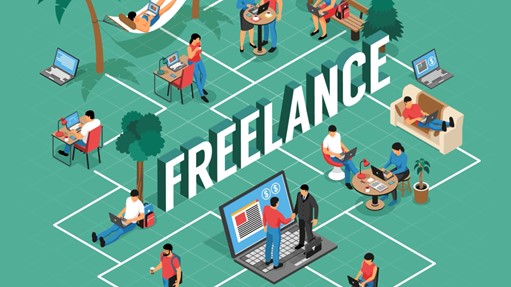
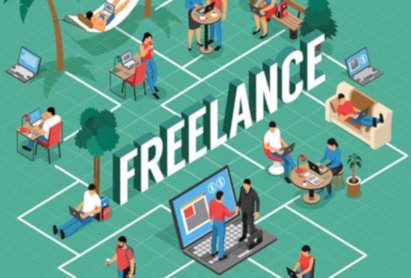
progres!!!

diff --git a/index.html b/index.html
@@ -6,15 +6,10 @@
         <script src="https://cdn.jsdelivr.net/npm/bootstrap@5.3.8/dist/js/bootstrap.bundle.min.js" integrity="sha384-FKyoEForCGlyvwx9Hj09JcYn3nv7wiPVlz7YYwJrWVcXK/BmnVDxM+D2scQbITxI" crossorigin="anonymous"></script>
     </head>
     <body>
-        <header style="background-color: #666; padding: 30px; text-align: center; font-size: 35px; color: white;">
-            <h1 class="display-5 fw-bold">Dark Forge Games</h1>
-            <p class="col-md-8 fs-5">bottom text</p>
-        </header>
-
-        <nav class="navbar navbar-expand-lg bg-body-tertiary" data-bs-theme = "dark">
+        <nav class="navbar fixed-top navbar-expand-lg" style="background: rgb(40, 35, 67);">
             <div class="container-fluid">
-                <a class="navbar-brand" href="#">
-                    <img src="assets/DarkForgeGames.png" alt="" width="50" height="30" class="d-inline-block align-text-top">
+                <a class="navbar-brand" href="#" style="font-size: 160%; font-family:FleshandBlood; color:rgb(112, 99, 195);">
+                    <img src="assets/DarkForgeGames.png" alt="" width="50" height="55" class="d-inline-block align-text-middle">
                     Dark Forge Games
                 </a>
 
@@ -26,89 +21,98 @@
 
                     <ul class="navbar-nav">
                         <li class="nav-item">
-                        <a class="nav-link active" aria-current="page" href="index.html">Home</a>
+                        <a class="nav-link active" aria-current="page" href="index.html" style="color: rgb(156, 144, 234); padding:15px">HOME</a>
                         </li>
                         <li class="nav-item">
-                        <a class="nav-link" href="about.html">About</a>
+                        <a class="nav-link" href="about.html" style="color: rgb(156, 144, 234); padding:15px">ABOUT</a>
                         </li>
                     </ul>
                 </div>
             </div>
         </nav>
 
-        <br><br>
-
-
-        <div style="margin:auto; width: 75%;">
-            <div class="card" style="width: 18rem;">
-                <img src="assets/Blogs/Thumbnail/IPdef.jpg" class="card-img-top" alt="Profile Picture">
-                <div class="card-body">
-                    <h5 class="card-title"  style = "font-family: 'Sovngarde'; font-size: 28px;">Sony’s Iron Grip on one of From Software’s most beloved IP: The reason and story behind it</h5>
-                    <p class="card-text"  style = "font-family: 'Sovngarde'; font-size: 22px;">Sony has had the ball in their court for over a decade in regards to one of From Software’s most beloved IPs: Bloodborne. Ever since the release of the game...</p>
-                    <a href="BlogIPRights.html" class="btn btn-primary" >Read Blog</a>
-                </div>
-            </div>
-
-            <div class="card" style="width: 18rem;">
-                <img src="assets/Blogs/Thumbnail/Freelance Pic.jpg" class="card-img-top" alt="Profile Picture">
-                <div class="card-body">
-                    <h5 class="card-title"  style = "font-family: 'Sovngarde'; font-size: 28px;">Freelancing in the Games Development Sphere: Is it worth it?</h5>
-                    <p class="card-text"  style = "font-family: 'Sovngarde'; font-size: 22px;">Freelancing in the Games Industry takes on two forms: being an “indie” games dev or taking short-term contracts for bigger companies. This post will cover the differences...</p>
-                    <a href="BlogFreelancing.html" class="btn btn-primary" >Read Blog</a>
-                </div>
-            </div>
-        </div>
-        
-        
-        <br><br>
-
-        <div style="margin:auto; width: 60%;">
-            <div id="carouselExampleIndicators" class="carousel slide">
-            <div class="carousel-indicators">
-                <button type="button" data-bs-target="#carouselExampleIndicators" data-bs-slide-to="0" class="active" aria-current="true" aria-label="Slide 1"></button>
-                <button type="button" data-bs-target="#carouselExampleIndicators" data-bs-slide-to="1" aria-label="Slide 2"></button>
-                <button type="button" data-bs-target="#carouselExampleIndicators" data-bs-slide-to="2" aria-label="Slide 3"></button>
-                <button type="button" data-bs-target="#carouselExampleIndicators" data-bs-slide-to="3" aria-label="Slide 4"></button>
-            </div>
-            <div class="carousel-inner">
-                <div class="carousel-item active">
-                    <img src="assets/Carousel/GearsOfBlood.png" class="d-block w-100" alt="Gears of Blood">
-                    <div class="carousel-caption d-none d-md-block">
-                        <h2>Gears of Blood</h3>
+        <header style="background-image: url('assets/Castle Ruins.png'); background-size:cover; background-position: top;padding: 200px; text-align: center; font-size: 35px; color: black;">
+            <h1 style="font-size: 200%; text-align: center; font-family:FleshandBlood; color: rgb(195, 186, 245); ">Dark Forge Games</h1>
+            <p style="font-size: 100%; text-align: center; color: rgb(195, 186, 245);">bottom text</p>
+        </header>
+        <br>
+        <section>
+            <div style="margin:auto; width: 75%;" class="row justify-content-evenly">
+                <div class="card" style="width: 18rem; height:fit-content">
+                    <img src="assets/Blogs/Thumbnail/IPdef.jpg" class="card-img-top" alt="Profile Picture">
+                    <div class="card-body">
+                        <h5 class="card-title"  style = "font-family: 'Sovngarde'; font-size: 24px;">Sony’s Iron Grip on one of From Software’s most beloved IP: The reason and story behind it</h5>
+                        <p class="card-text"  style = "font-family: 'Sovngarde'; font-size: 18px;">Sony has had the ball in their court for over a decade in regards to one of From Software’s most beloved IPs: Bloodborne. Ever since the release of the game...</p>
+                        <a href="BlogIPRights.html" class="btn btn-primary" >Read Blog</a>
                     </div>
                 </div>
-                <div class="carousel-item">
-                    <img src="assets/Carousel/SanctumArcana.png" class="d-block w-100" alt="Sanctum Arcana">
-                    <div class="carousel-caption d-none d-md-block">
-                        <h2>Sanctum Arcana</h3>
-                    </div>
-                </div>
-                <div class="carousel-item">
-                    <img src="assets/Carousel/Tenement49.png" class="d-block w-100" alt="Tenement 49">
-                    <div class="carousel-caption d-none d-md-block">
-                        <h2>Tenement 49</h3>
-                    </div>
-                </div>
-                <div class="carousel-item">
-                    <img src="assets/Carousel/UntitledGladiatorGame.jpg" class="d-block w-100" alt="Untitled Gladiator Game">
-                    <div class="carousel-caption d-none d-md-block">
-                        <h2>Untitled Gladiator Game</h3>
+
+                <div class="card" style="width: 18rem; height:fit-content">
+                    <img src="assets/Blogs/Thumbnail/Freelance Pic.jpg" class="card-img-top" alt="Profile Picture">
+                    <div class="card-body">
+                        <h5 class="card-title"  style = "font-family: 'Sovngarde'; font-size: 24px;">Freelancing in the Games Development Sphere: Is it worth it?</h5>
+                        <p class="card-text"  style = "font-family: 'Sovngarde'; font-size: 18px;">Freelancing in the Games Industry takes on two forms: being an “indie” games dev or taking short-term contracts for bigger companies. This post will cover the differences between...</p>
+                        <a href="BlogFreelancing.html" class="btn btn-primary" >Read Blog</a>
                     </div>
                 </div>
             </div>
-                <button class="carousel-control-prev" type="button" data-bs-target="#carouselExampleIndicators" data-bs-slide="prev">
-                    <span class="carousel-control-prev-icon" aria-hidden="true"></span>
-                    <span class="visually-hidden">Previous</span>
-                </button>
-                <button class="carousel-control-next" type="button" data-bs-target="#carouselExampleIndicators" data-bs-slide="next">
-                    <span class="carousel-control-next-icon" aria-hidden="true"></span>
-                    <span class="visually-hidden">Next</span>
-                </button>
+        </section>
+        <br>
+        <section>
+            <div style="margin:auto; width: 75%;">
+                <div id="carouselExampleIndicators" class="carousel slide">
+                <div class="carousel-indicators">
+                    <button type="button" data-bs-target="#carouselExampleIndicators" data-bs-slide-to="0" class="active" aria-current="true" aria-label="Slide 1"></button>
+                    <button type="button" data-bs-target="#carouselExampleIndicators" data-bs-slide-to="1" aria-label="Slide 2"></button>
+                    <button type="button" data-bs-target="#carouselExampleIndicators" data-bs-slide-to="2" aria-label="Slide 3"></button>
+                    <button type="button" data-bs-target="#carouselExampleIndicators" data-bs-slide-to="3" aria-label="Slide 4"></button>
+                </div>
+                <div class="carousel-inner">
+                    <div class="carousel-item active">
+                        <img src="assets/Carousel/GearsOfBlood.png" class="d-block w-100" alt="Gears of Blood">
+                        <div class="carousel-caption d-none d-md-block">
+                            <h2>Gears of Blood</h3>
+                        </div>
+                    </div>
+                    <div class="carousel-item">
+                        <img src="assets/Carousel/SanctumArcana.png" class="d-block w-100" alt="Sanctum Arcana">
+                        <div class="carousel-caption d-none d-md-block">
+                            <h2>Sanctum Arcana</h3>
+                        </div>
+                    </div>
+                    <div class="carousel-item">
+                        <img src="assets/Carousel/Tenement49.png" class="d-block w-100" alt="Tenement 49">
+                        <div class="carousel-caption d-none d-md-block">
+                            <h2>Tenement 49</h3>
+                        </div>
+                    </div>
+                    <div class="carousel-item">
+                        <img src="assets/Carousel/UntitledGladiatorGame.jpg" class="d-block w-100" alt="Untitled Gladiator Game">
+                        <div class="carousel-caption d-none d-md-block">
+                            <h2>Untitled Gladiator Game</h3>
+                        </div>
+                    </div>
+                </div>
+                    <button class="carousel-control-prev" type="button" data-bs-target="#carouselExampleIndicators" data-bs-slide="prev">
+                        <span class="carousel-control-prev-icon" aria-hidden="true"></span>
+                        <span class="visually-hidden">Previous</span>
+                    </button>
+                    <button class="carousel-control-next" type="button" data-bs-target="#carouselExampleIndicators" data-bs-slide="next">
+                        <span class="carousel-control-next-icon" aria-hidden="true"></span>
+                        <span class="visually-hidden">Next</span>
+                    </button>
+                </div>
             </div>
-        </div>
+        </section>
 
-        <footer>
-            <p>Footer</p>
+        <br>
+
+        <footer style ="background-color: rgb(40, 35, 67); text-align: center; color: white;">
+
+            <section style="padding:20px;">
+                <p>para</p>
+            </section>
+
         </footer>
 
     </body> 

diff --git a/test.html b/test.html
@@ -6,42 +6,34 @@
         <meta name="viewport" content="width=device-width, initial-scale=1">
         <link href="https://cdn.jsdelivr.net/npm/bootstrap@5.3.8/dist/css/bootstrap.min.css" rel="stylesheet" integrity="sha384-sRIl4kxILFvY47J16cr9ZwB07vP4J8+LH7qKQnuqkuIAvNWLzeN8tE5YBujZqJLB" crossorigin="anonymous">
         <script src="https://cdn.jsdelivr.net/npm/bootstrap@5.3.8/dist/js/bootstrap.bundle.min.js" integrity="sha384-FKyoEForCGlyvwx9Hj09JcYn3nv7wiPVlz7YYwJrWVcXK/BmnVDxM+D2scQbITxI" crossorigin="anonymous"></script>
-        <style>
-        * {box-sizing: border-box;}
-
-        /* Responsive layout - makes the two columns/boxes stack on top of each other instead of next to each other, on small screens */
-        @media (max-width: 600px) {
-        nav, article {
-            width: 100%;
-            height: auto;
-        }
-        }
-        </style>
     </head>
+
     <body style="font-family: Arial, Helvetica, sans-serif;">
 
-        <h2>CSS Layout Float</h2>
-        <p>In this example, we have created a header, two columns/boxes and a footer. On smaller screens, the columns will stack on top of each other.</p>
-        <p>Resize the browser window to see the responsive effect (you will learn more about this in our next chapter - HTML Responsive.)</p>
-
-        <header style="background-color: #666; padding: 30px; text-align: center; font-size: 35px; color: white;">
-        <h2>Cities</h2>
+        <header style="background-image: url('assets/Castle Ruins.png'); background-size:cover; padding: 200px; text-align: center; font-size: 35px; color: black;">
+            <h1 style="color: black; font-size: 200%; text-align: center;">kj\ngbv\sldbn\dlkjsbnlkjn</h1>
         </header>
 
-        <section>
-            
-            <nav class="nav flex-column" style="float: left; width: 30%; background: #ccc; padding: 25px;">
+        <aside>
+            <nav class="nav flex-column navbar-expand-lg" style="float: left; width: 30%; background: rgb(49, 47, 61);">
+                <button class="navbar-toggler" type="button" data-bs-toggle="collapse" data-bs-target="#navbarNavDropdown" aria-controls="navbarNavDropdown" aria-expanded="false" aria-label="Toggle navigation">
+                <span class="navbar-toggler-icon"></span>
+                </button>
+
                 <a class="navbar-brand" href="#" style="font-family:fantasy">
+                    <br>
                     <img src="assets/DarkForgeGames.png" alt="" width="100" height="100" class="align-text-middle" style="display: block; margin-left: auto; margin-right: auto;">
-                    <p style="padding:10px; font-size: 180%; font-family:FleshandBlood; color:darkslateblue">Dark Forge Games</p>
+                    <p style="text-align: center; font-size: 180%; font-family:FleshandBlood; color:darkslateblue">Dark Forge Games</p>
                 </a>
-                <a class="nav-link active" aria-current="page" href="#">Active</a>
-                <a class="nav-link" href="#">Link</a>
-                <a class="nav-link" href="#">Link</a>
-                <a class="nav-link disabled" href="#" tabindex="-1" aria-disabled="true">Disabled</a>
+                <a class="nav-link active" aria-current="page" href="#" style="background-color: rgb(66, 64, 89);">Active</a>
+                <a class="nav-link" href="#" style="background-color: rgb(59, 55, 78);">Link</a>
+                <a class="nav-link" href="#" style="background-color: rgb(59, 55, 78);">Link</a>
             </nav>
+        </aside>
+
+        <section data-bs-theme = "dark">
                         
-            <article style ="float: left; padding: 20px; width: 70%; background-color: #f1f1f1; height: 300px;">
+            <article style ="float: left; padding: 20px; width: 70%; background-color: #f1f1f1; height: 450px;">
                 <h1>London</h1>
                 <p>London is the capital city of England. It is the most populous city in the  United Kingdom, with a metropolitan area of over 13 million inhabitants.</p>
                 <p>Standing on the River Thames, London has been a major settlement for two millennia, its history going back to its founding by the Romans, who named it Londinium.</p>

diff --git a/about.html b/about.html
@@ -1,11 +1,36 @@
 <!DOCTYPE html>
 <html lang="en">
     <head>
-        <h2>Dark Forge Games: About</h2>
+        <title>Dark Forge Games: About</title>
         <link href="https://cdn.jsdelivr.net/npm/bootstrap@5.3.8/dist/css/bootstrap.min.css" rel="stylesheet" integrity="sha384-sRIl4kxILFvY47J16cr9ZwB07vP4J8+LH7qKQnuqkuIAvNWLzeN8tE5YBujZqJLB" crossorigin="anonymous">
         <script src="https://cdn.jsdelivr.net/npm/bootstrap@5.3.8/dist/js/bootstrap.bundle.min.js" integrity="sha384-FKyoEForCGlyvwx9Hj09JcYn3nv7wiPVlz7YYwJrWVcXK/BmnVDxM+D2scQbITxI" crossorigin="anonymous"></script>
     </head>
     <body>
+        <nav class="navbar fixed-top navbar-expand-lg" style="background: rgb(40, 35, 67);">
+            <div class="container-fluid">
+                <a class="navbar-brand" href="#" style="font-size: 160%; font-family:FleshandBlood; color:rgb(112, 99, 195);">
+                    <img src="assets/DarkForgeGames.png" alt="" width="50" height="55" class="d-inline-block align-text-middle">
+                    Dark Forge Games
+                </a>
+
+                <button class="navbar-toggler" type="button" data-bs-toggle="collapse" data-bs-target="#navbarNavDropdown" aria-controls="navbarNavDropdown" aria-expanded="false" aria-label="Toggle navigation">
+                <span class="navbar-toggler-icon"></span>
+                </button>
+
+                <div class="collapse navbar-collapse" id="navbarNavDropdown">
+
+                    <ul class="navbar-nav">
+                        <li class="nav-item">
+                        <a class="nav-link" href="index.html" style="color: rgb(156, 144, 234); padding:15px">HOME</a>
+                        </li>
+                        <li class="nav-item">
+                        <a class="nav-link active" aria-current="page" href="about.html" style="color: rgb(156, 144, 234); padding:15px">ABOUT</a>
+                        </li>
+                    </ul>
+                </div>
+            </div>
+        </nav>
+
         <p>Para</p>
     </body>
 </html>
